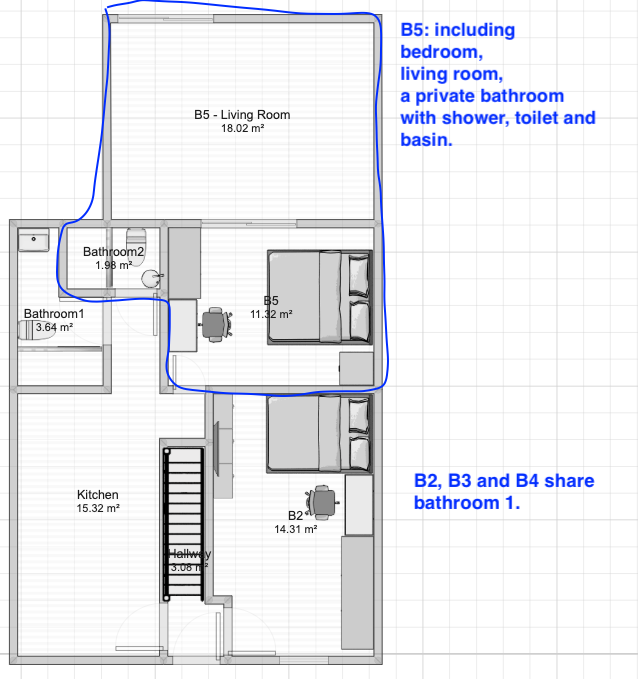
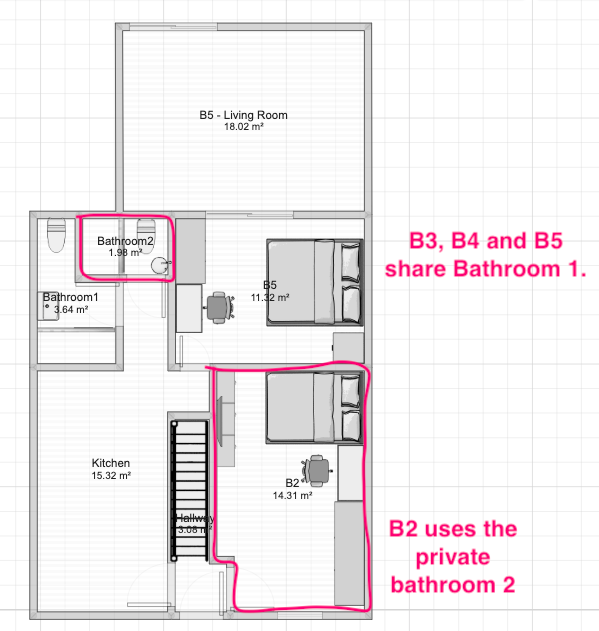
updates

diff --git a/GU29SD-24.html b/GU29SD-24.html
@@ -64,29 +64,33 @@
 			-->
 
 			<h1>
-				<p> 5-bed house 16 min walk to University of Surrey</p></h1>
+				<p> 16 min walk to University of Surrey</p></h1>
 			<h2 style="background-color:Yellow; color=#fff">
                 @: <a href=mailto:manhanhouse@gmail.com>manhanhouse@gmail.com</a><br>
 				 Tel: 07503016565 <br>
 				Wechat: chong600268 <br>
 				</h2>
 			 <h2>
+                 The house consists of a fully functional kitchen, a large garden, 3 bathrooms and 5 private bedrooms.<br>
+                 <p> 100 Mb broadband internet!  </p>
+                 
+                 <ul>
+                     <li>B1: 1 large en-suite with king size bed, private bathroom[availble from 15/08/2019]<br>
+                         <li>B2: a large en-suite with king size bed, private bathroom [availble from 18/08/2019]<br>
+                             <li>B3: a doubleroom [availble from 16/09/2019]<br>
+                                 <li>B4: a small singleroom [availble from 15/07/2019]<br>
+                                     <li><del>B5: a flat NOT for rent<br>
+                                         </ul>
+                 B1 and B2 have their own private bathrooms.<br>
+                 B3, B4 and B5 share the Bathroom 1. <br>
+                
                  <p>Convenient with <br>
                  2 mins walk to supermarket (CO-OP), gas station, and a bunches of local shops; <br>
                  5 mins walk to the largest Chinese Restaurant in Guildford; <br>
                  16 mins to the University of Surrey; <br>
                  1 min walk into a large park(recreation ground) with lots of fitness equipments and activities.<br>
                  <br>
-                 The house consists of a fully functional kitchen, a large garden, 2 bathrooms and 5 private bedrooms.<br>
-                 <p> 100 Mb broadband internet!  </p>
-                 
-                 <ul>
-                        <li>B1: 1 large en-suite with king size bed, private bathroom[availble from 15/08/2019]<br>
-                        <li>B2: a large doubleroom with king size bed [availble from 18/08/2019]<br>
-                        <li>B3: a doubleroom [availble from 16/09/2019]<br>
-                        <li>B4: a small singleroom [availble from 15/07/2019]<br>
-                        <li>B5: a doubleroom with king size bed [availble from 15/08/2019]<br>
-                </ul>
+                
                  
                  3 mins to buses (4, 5, KITE, 697, ...) to town Centre or other adjacent towns. No need to take bus to the university since before the waiting for the bus you already walked there. :)<br><br>
                  

diff --git a/list.html b/list.html
@@ -123,7 +123,7 @@
                             <td><a href="http://manalgorithm.com/GU29SD-24.html">GU29SD-24</a></td>
                         </tr>
                         <tr>
-                            <td style="color:Orange;">Large double room (B2)</td>
+                            <td style="color:Orange;">Large en-suite  (B2)</td>
                             <td style="color:Orange;">18/08/2019</td>
                             <td style="color:Orange;">GU2 9SD</td>
                             <td><a href="http://manalgorithm.com/GU29SD-24.html">GU29SD-24</a></td>
@@ -140,12 +140,12 @@
                             <td style="color:Orange;">GU2 9SD</td>
                             <td><a href="http://manalgorithm.com/GU29SD-24.html">GU29SD-24</a></td>
                         </tr>
-                        <tr>
+                        <!--tr>
                             <td style="color:Orange;">1-bed flat without kitchen (B5)</td>
                             <td style="color:Orange;">15/08/2019</td>
                             <td style="color:Orange;">GU2 9SD</td>
                             <td><a href="http://manalgorithm.com/GU29SD-24.html">GU29SD-24</a></td>
-                        </tr>
+                        </tr-->
                         
                         </h2>
                     </table>
